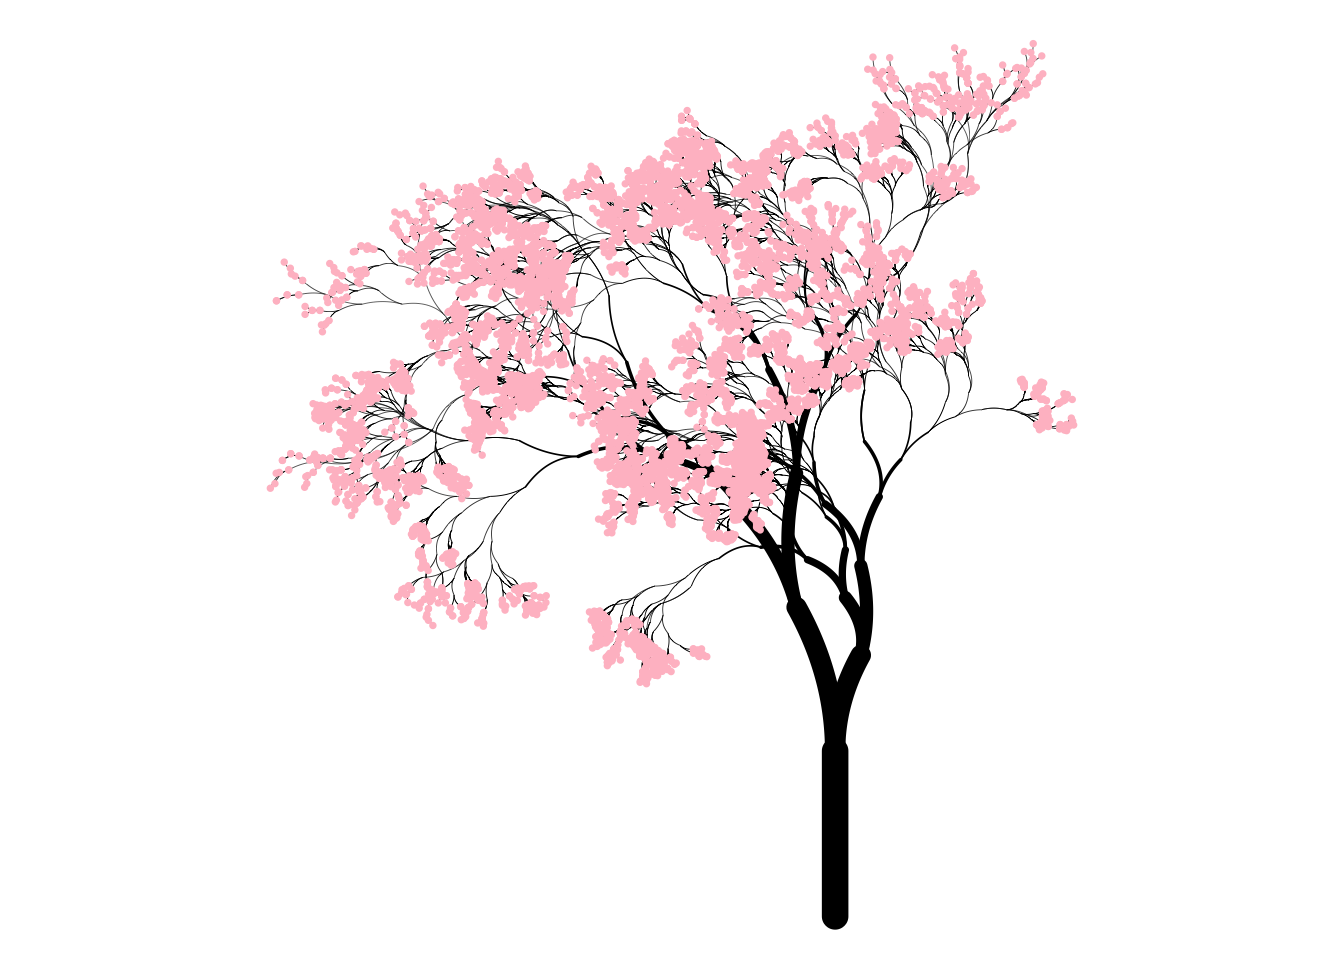
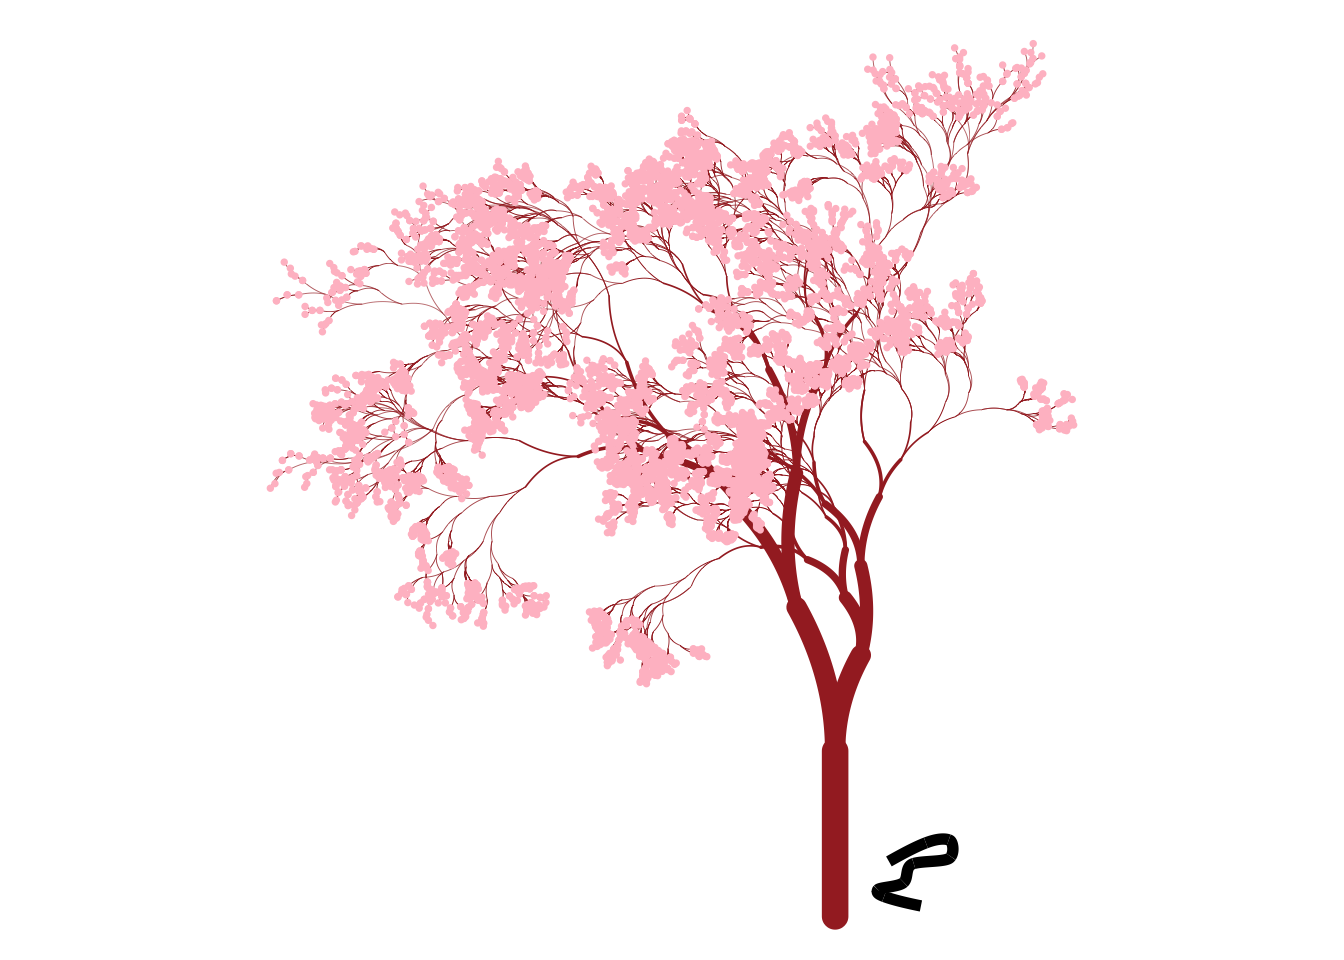
rendering

diff --git a/artwork.html b/artwork.html
@@ -142,52 +142,77 @@ Attaching package: 'dplyr'</code></pre>
 <div class="sourceCode cell-code" id="cb5"><pre class="sourceCode r code-with-copy"><code class="sourceCode r"><span id="cb5-1"><a href="#cb5-1" aria-hidden="true" tabindex="-1"></a><span class="fu">library</span>(tibble)</span>
 <span id="cb5-2"><a href="#cb5-2" aria-hidden="true" tabindex="-1"></a><span class="fu">library</span>(ggplot2)</span>
 <span id="cb5-3"><a href="#cb5-3" aria-hidden="true" tabindex="-1"></a><span class="fu">library</span>(ggforce)</span>
-<span id="cb5-4"><a href="#cb5-4" aria-hidden="true" tabindex="-1"></a><span class="fu">library</span>(flametree)</span></code><button title="Copy to Clipboard" class="code-copy-button"><i class="bi"></i></button></pre></div>
+<span id="cb5-4"><a href="#cb5-4" aria-hidden="true" tabindex="-1"></a><span class="fu">library</span>(flametree)</span>
+<span id="cb5-5"><a href="#cb5-5" aria-hidden="true" tabindex="-1"></a><span class="fu">library</span>(dplyr)</span>
+<span id="cb5-6"><a href="#cb5-6" aria-hidden="true" tabindex="-1"></a><span class="fu">library</span>(purrr)</span>
+<span id="cb5-7"><a href="#cb5-7" aria-hidden="true" tabindex="-1"></a><span class="fu">library</span>(tidyr)</span>
+<span id="cb5-8"><a href="#cb5-8" aria-hidden="true" tabindex="-1"></a><span class="fu">library</span>(tibble)</span>
+<span id="cb5-9"><a href="#cb5-9" aria-hidden="true" tabindex="-1"></a><span class="fu">library</span>(ggplot2)</span>
+<span id="cb5-10"><a href="#cb5-10" aria-hidden="true" tabindex="-1"></a><span class="fu">library</span>(ambient)</span>
+<span id="cb5-11"><a href="#cb5-11" aria-hidden="true" tabindex="-1"></a><span class="fu">library</span>(tictoc)</span>
+<span id="cb5-12"><a href="#cb5-12" aria-hidden="true" tabindex="-1"></a><span class="fu">library</span>(ggthemes)</span>
+<span id="cb5-13"><a href="#cb5-13" aria-hidden="true" tabindex="-1"></a><span class="fu">library</span>(gifski)</span></code><button title="Copy to Clipboard" class="code-copy-button"><i class="bi"></i></button></pre></div>
 </div>
 <div class="cell">
-<div class="sourceCode cell-code" id="cb6"><pre class="sourceCode r code-with-copy"><code class="sourceCode r"><span id="cb6-1"><a href="#cb6-1" aria-hidden="true" tabindex="-1"></a><span class="fu">library</span>(ggplot2)</span>
+<div class="sourceCode cell-code" id="cb6"><pre class="sourceCode r code-with-copy"><code class="sourceCode r"><span id="cb6-1"><a href="#cb6-1" aria-hidden="true" tabindex="-1"></a><span class="fu">library</span>(ggplot2) <span class="co">#installing libraryes</span></span>
 <span id="cb6-2"><a href="#cb6-2" aria-hidden="true" tabindex="-1"></a><span class="fu">library</span>(ggforce)</span>
-<span id="cb6-3"><a href="#cb6-3" aria-hidden="true" tabindex="-1"></a></span>
-<span id="cb6-4"><a href="#cb6-4" aria-hidden="true" tabindex="-1"></a>tree <span class="ot">&lt;-</span> <span class="fu">flametree_grow</span>(</span>
-<span id="cb6-5"><a href="#cb6-5" aria-hidden="true" tabindex="-1"></a>  <span class="at">seed =</span> <span class="dv">286</span>,</span>
-<span id="cb6-6"><a href="#cb6-6" aria-hidden="true" tabindex="-1"></a>  <span class="at">time =</span> <span class="dv">12</span>,</span>
-<span id="cb6-7"><a href="#cb6-7" aria-hidden="true" tabindex="-1"></a>  <span class="at">angle =</span> <span class="fu">c</span>(<span class="sc">-</span><span class="dv">15</span>, <span class="dv">15</span>, <span class="dv">30</span>),</span>
-<span id="cb6-8"><a href="#cb6-8" aria-hidden="true" tabindex="-1"></a>  <span class="at">split =</span> <span class="dv">2</span>,</span>
-<span id="cb6-9"><a href="#cb6-9" aria-hidden="true" tabindex="-1"></a>  <span class="at">trees =</span> <span class="dv">1</span></span>
-<span id="cb6-10"><a href="#cb6-10" aria-hidden="true" tabindex="-1"></a>)</span>
-<span id="cb6-11"><a href="#cb6-11" aria-hidden="true" tabindex="-1"></a></span>
-<span id="cb6-12"><a href="#cb6-12" aria-hidden="true" tabindex="-1"></a>leaf <span class="ot">&lt;-</span> tree <span class="sc">|&gt;</span> <span class="fu">filter</span>(id_leaf <span class="sc">==</span> <span class="cn">TRUE</span>)</span>
-<span id="cb6-13"><a href="#cb6-13" aria-hidden="true" tabindex="-1"></a></span>
-<span id="cb6-14"><a href="#cb6-14" aria-hidden="true" tabindex="-1"></a>base <span class="ot">&lt;-</span> <span class="fu">ggplot</span>() <span class="sc">+</span> </span>
-<span id="cb6-15"><a href="#cb6-15" aria-hidden="true" tabindex="-1"></a>  <span class="fu">scale_size_identity</span>() <span class="sc">+</span> </span>
-<span id="cb6-16"><a href="#cb6-16" aria-hidden="true" tabindex="-1"></a>  <span class="fu">theme_void</span>() <span class="sc">+</span> </span>
-<span id="cb6-17"><a href="#cb6-17" aria-hidden="true" tabindex="-1"></a>  <span class="fu">coord_equal</span>()</span>
-<span id="cb6-18"><a href="#cb6-18" aria-hidden="true" tabindex="-1"></a></span>
-<span id="cb6-19"><a href="#cb6-19" aria-hidden="true" tabindex="-1"></a>leaves <span class="ot">&lt;-</span> <span class="fu">geom_point</span>(</span>
-<span id="cb6-20"><a href="#cb6-20" aria-hidden="true" tabindex="-1"></a>  <span class="at">mapping =</span> <span class="fu">aes</span>(coord_x, coord_y),</span>
-<span id="cb6-21"><a href="#cb6-21" aria-hidden="true" tabindex="-1"></a>  <span class="at">data =</span> leaf, </span>
-<span id="cb6-22"><a href="#cb6-22" aria-hidden="true" tabindex="-1"></a>  <span class="at">size =</span> <span class="fl">1.3</span>, </span>
-<span id="cb6-23"><a href="#cb6-23" aria-hidden="true" tabindex="-1"></a>  <span class="at">stroke =</span> <span class="dv">0</span>, </span>
-<span id="cb6-24"><a href="#cb6-24" aria-hidden="true" tabindex="-1"></a>  <span class="at">colour =</span> <span class="st">"pink"</span></span>
-<span id="cb6-25"><a href="#cb6-25" aria-hidden="true" tabindex="-1"></a>)</span>
-<span id="cb6-26"><a href="#cb6-26" aria-hidden="true" tabindex="-1"></a></span>
-<span id="cb6-27"><a href="#cb6-27" aria-hidden="true" tabindex="-1"></a>trunk <span class="ot">&lt;-</span> <span class="fu">geom_bezier</span>(</span>
-<span id="cb6-28"><a href="#cb6-28" aria-hidden="true" tabindex="-1"></a>  <span class="at">mapping =</span> <span class="fu">aes</span>(coord_x, coord_y, <span class="at">group =</span> id_pathtree, <span class="at">size =</span> seg_wid),</span>
-<span id="cb6-29"><a href="#cb6-29" aria-hidden="true" tabindex="-1"></a>  <span class="at">data =</span> tree, </span>
-<span id="cb6-30"><a href="#cb6-30" aria-hidden="true" tabindex="-1"></a>  <span class="at">lineend =</span> <span class="st">"round"</span>,</span>
-<span id="cb6-31"><a href="#cb6-31" aria-hidden="true" tabindex="-1"></a>  <span class="at">show.legend =</span> <span class="cn">FALSE</span></span>
-<span id="cb6-32"><a href="#cb6-32" aria-hidden="true" tabindex="-1"></a>)</span></code><button title="Copy to Clipboard" class="code-copy-button"><i class="bi"></i></button></pre></div>
+<span id="cb6-3"><a href="#cb6-3" aria-hidden="true" tabindex="-1"></a><span class="fu">library</span>(e1071)</span>
+<span id="cb6-4"><a href="#cb6-4" aria-hidden="true" tabindex="-1"></a></span>
+<span id="cb6-5"><a href="#cb6-5" aria-hidden="true" tabindex="-1"></a>tree <span class="ot">&lt;-</span> <span class="fu">flametree_grow</span>(</span>
+<span id="cb6-6"><a href="#cb6-6" aria-hidden="true" tabindex="-1"></a>  <span class="at">seed =</span> <span class="dv">286</span>, <span class="co">#adjusting the randomness of the angle of the tree</span></span>
+<span id="cb6-7"><a href="#cb6-7" aria-hidden="true" tabindex="-1"></a>  <span class="at">time =</span> <span class="dv">12</span>,</span>
+<span id="cb6-8"><a href="#cb6-8" aria-hidden="true" tabindex="-1"></a>  <span class="at">angle =</span> <span class="fu">c</span>(<span class="sc">-</span><span class="dv">15</span>, <span class="dv">15</span>, <span class="dv">30</span>), <span class="co">#adjusting the angle of the tree</span></span>
+<span id="cb6-9"><a href="#cb6-9" aria-hidden="true" tabindex="-1"></a>  <span class="at">split =</span> <span class="dv">2</span>, <span class="co">#adjusting the split of the tree</span></span>
+<span id="cb6-10"><a href="#cb6-10" aria-hidden="true" tabindex="-1"></a>  <span class="at">trees =</span> <span class="dv">1</span></span>
+<span id="cb6-11"><a href="#cb6-11" aria-hidden="true" tabindex="-1"></a>)</span>
+<span id="cb6-12"><a href="#cb6-12" aria-hidden="true" tabindex="-1"></a></span>
+<span id="cb6-13"><a href="#cb6-13" aria-hidden="true" tabindex="-1"></a>leaf <span class="ot">&lt;-</span> tree <span class="sc">|&gt;</span> <span class="fu">filter</span>(id_leaf <span class="sc">==</span> <span class="cn">TRUE</span>) <span class="co">#creating the leaves</span></span>
+<span id="cb6-14"><a href="#cb6-14" aria-hidden="true" tabindex="-1"></a></span>
+<span id="cb6-15"><a href="#cb6-15" aria-hidden="true" tabindex="-1"></a>base <span class="ot">&lt;-</span> <span class="fu">ggplot</span>() <span class="sc">+</span>  <span class="co">#creaing the base of the tree</span></span>
+<span id="cb6-16"><a href="#cb6-16" aria-hidden="true" tabindex="-1"></a>  <span class="fu">scale_size_identity</span>() <span class="sc">+</span> </span>
+<span id="cb6-17"><a href="#cb6-17" aria-hidden="true" tabindex="-1"></a>  <span class="fu">theme_void</span>() <span class="sc">+</span> <span class="co">#getting rid of the base</span></span>
+<span id="cb6-18"><a href="#cb6-18" aria-hidden="true" tabindex="-1"></a>  <span class="fu">coord_equal</span>()</span>
+<span id="cb6-19"><a href="#cb6-19" aria-hidden="true" tabindex="-1"></a></span>
+<span id="cb6-20"><a href="#cb6-20" aria-hidden="true" tabindex="-1"></a>leaves <span class="ot">&lt;-</span> <span class="fu">geom_point</span>(</span>
+<span id="cb6-21"><a href="#cb6-21" aria-hidden="true" tabindex="-1"></a>  <span class="at">mapping =</span> <span class="fu">aes</span>(coord_x, coord_y),</span>
+<span id="cb6-22"><a href="#cb6-22" aria-hidden="true" tabindex="-1"></a>  <span class="at">data =</span> leaf, </span>
+<span id="cb6-23"><a href="#cb6-23" aria-hidden="true" tabindex="-1"></a>  <span class="at">size =</span> <span class="fl">1.3</span>,  <span class="co">#adjusting the size</span></span>
+<span id="cb6-24"><a href="#cb6-24" aria-hidden="true" tabindex="-1"></a>  <span class="at">stroke =</span> <span class="dv">0</span>, </span>
+<span id="cb6-25"><a href="#cb6-25" aria-hidden="true" tabindex="-1"></a>  <span class="at">colour =</span> <span class="st">"pink"</span> <span class="co">#adjusting the color of the leaves to pink</span></span>
+<span id="cb6-26"><a href="#cb6-26" aria-hidden="true" tabindex="-1"></a>)</span>
+<span id="cb6-27"><a href="#cb6-27" aria-hidden="true" tabindex="-1"></a></span>
+<span id="cb6-28"><a href="#cb6-28" aria-hidden="true" tabindex="-1"></a>trunk <span class="ot">&lt;-</span> <span class="fu">geom_bezier</span>(</span>
+<span id="cb6-29"><a href="#cb6-29" aria-hidden="true" tabindex="-1"></a>  <span class="at">mapping =</span> <span class="fu">aes</span>(coord_x, coord_y, <span class="at">group =</span> id_pathtree, <span class="at">size =</span> seg_wid),</span>
+<span id="cb6-30"><a href="#cb6-30" aria-hidden="true" tabindex="-1"></a>  <span class="at">data =</span> tree, </span>
+<span id="cb6-31"><a href="#cb6-31" aria-hidden="true" tabindex="-1"></a>  <span class="at">lineend =</span> <span class="st">"round"</span>, <span class="co">#adjusting the shape of the trunk</span></span>
+<span id="cb6-32"><a href="#cb6-32" aria-hidden="true" tabindex="-1"></a>  <span class="at">show.legend =</span> <span class="cn">FALSE</span>,</span>
+<span id="cb6-33"><a href="#cb6-33" aria-hidden="true" tabindex="-1"></a>  <span class="at">colour =</span> <span class="st">"brown"</span> <span class="co">#adjusting the color of the trunk</span></span>
+<span id="cb6-34"><a href="#cb6-34" aria-hidden="true" tabindex="-1"></a>)</span></code><button title="Copy to Clipboard" class="code-copy-button"><i class="bi"></i></button></pre></div>
 <div class="cell-output cell-output-stderr">
 <pre><code>Warning: Using `size` aesthetic for lines was deprecated in ggplot2 3.4.0.
 ℹ Please use `linewidth` instead.</code></pre>
 </div>
-<div class="sourceCode cell-code" id="cb8"><pre class="sourceCode r code-with-copy"><code class="sourceCode r"><span id="cb8-1"><a href="#cb8-1" aria-hidden="true" tabindex="-1"></a><span class="co"># generating a random color each time</span></span>
-<span id="cb8-2"><a href="#cb8-2" aria-hidden="true" tabindex="-1"></a>random_color <span class="ot">&lt;-</span> <span class="fu">sample</span>(<span class="fu">colors</span>(), <span class="dv">1</span>)</span>
-<span id="cb8-3"><a href="#cb8-3" aria-hidden="true" tabindex="-1"></a></span>
-<span id="cb8-4"><a href="#cb8-4" aria-hidden="true" tabindex="-1"></a></span>
-<span id="cb8-5"><a href="#cb8-5" aria-hidden="true" tabindex="-1"></a></span>
-<span id="cb8-6"><a href="#cb8-6" aria-hidden="true" tabindex="-1"></a></span>
-<span id="cb8-7"><a href="#cb8-7" aria-hidden="true" tabindex="-1"></a><span class="fu">plot</span>(base <span class="sc">+</span> trunk <span class="sc">+</span> leaves, <span class="at">col =</span> random_color)</span></code><button title="Copy to Clipboard" class="code-copy-button"><i class="bi"></i></button></pre></div>
+<div class="sourceCode cell-code" id="cb8"><pre class="sourceCode r code-with-copy"><code class="sourceCode r"><span id="cb8-1"><a href="#cb8-1" aria-hidden="true" tabindex="-1"></a>smooth_loess <span class="ot">&lt;-</span> <span class="cf">function</span>(x, span) { <span class="co">#creating a smooth curve</span></span>
+<span id="cb8-2"><a href="#cb8-2" aria-hidden="true" tabindex="-1"></a>  n <span class="ot">&lt;-</span> <span class="fu">length</span>(x)</span>
+<span id="cb8-3"><a href="#cb8-3" aria-hidden="true" tabindex="-1"></a>  dat <span class="ot">&lt;-</span> <span class="fu">tibble</span>(<span class="at">time =</span> <span class="dv">1</span><span class="sc">:</span>n, <span class="at">walk =</span> x)</span>
+<span id="cb8-4"><a href="#cb8-4" aria-hidden="true" tabindex="-1"></a>  mod <span class="ot">&lt;-</span> <span class="fu">loess</span>(walk <span class="sc">~</span> time, dat, <span class="at">span =</span> span)</span>
+<span id="cb8-5"><a href="#cb8-5" aria-hidden="true" tabindex="-1"></a>  <span class="fu">predict</span>(mod, <span class="fu">tibble</span>(<span class="at">time =</span> <span class="dv">1</span><span class="sc">:</span>n))</span>
+<span id="cb8-6"><a href="#cb8-6" aria-hidden="true" tabindex="-1"></a>}</span>
+<span id="cb8-7"><a href="#cb8-7" aria-hidden="true" tabindex="-1"></a></span>
+<span id="cb8-8"><a href="#cb8-8" aria-hidden="true" tabindex="-1"></a>smooth_path <span class="ot">&lt;-</span> <span class="cf">function</span>(<span class="at">n =</span> <span class="dv">1000</span>, <span class="at">smoothing =</span> .<span class="dv">7</span>, <span class="at">seed =</span> <span class="cn">NULL</span>) { </span>
+<span id="cb8-9"><a href="#cb8-9" aria-hidden="true" tabindex="-1"></a>  <span class="cf">if</span>(<span class="sc">!</span><span class="fu">is.null</span>(seed)) <span class="fu">set.seed</span>(seed)</span>
+<span id="cb8-10"><a href="#cb8-10" aria-hidden="true" tabindex="-1"></a>  <span class="fu">tibble</span>(</span>
+<span id="cb8-11"><a href="#cb8-11" aria-hidden="true" tabindex="-1"></a>    <span class="at">x =</span> <span class="fu">smooth_loess</span>(<span class="fu">rbridge</span>(<span class="dv">1</span>, n), <span class="at">span =</span> smoothing), <span class="co">#creating smooth lines</span></span>
+<span id="cb8-12"><a href="#cb8-12" aria-hidden="true" tabindex="-1"></a>    <span class="at">y =</span> <span class="fu">smooth_loess</span>(<span class="fu">rbridge</span>(<span class="dv">1</span>, n), <span class="at">span =</span> smoothing),</span>
+<span id="cb8-13"><a href="#cb8-13" aria-hidden="true" tabindex="-1"></a>    <span class="at">stroke =</span> <span class="dv">1</span> <span class="co">#adjusting the stroke of the line</span></span>
+<span id="cb8-14"><a href="#cb8-14" aria-hidden="true" tabindex="-1"></a>  )</span>
+<span id="cb8-15"><a href="#cb8-15" aria-hidden="true" tabindex="-1"></a>}</span>
+<span id="cb8-16"><a href="#cb8-16" aria-hidden="true" tabindex="-1"></a></span>
+<span id="cb8-17"><a href="#cb8-17" aria-hidden="true" tabindex="-1"></a>path <span class="ot">&lt;-</span> <span class="fu">smooth_path</span>(<span class="at">seed =</span> <span class="dv">50</span>) <span class="co">#adjusting the randomness of the path</span></span>
+<span id="cb8-18"><a href="#cb8-18" aria-hidden="true" tabindex="-1"></a></span>
+<span id="cb8-19"><a href="#cb8-19" aria-hidden="true" tabindex="-1"></a>combined_plot <span class="ot">&lt;-</span> base <span class="sc">+</span> trunk <span class="sc">+</span> leaves <span class="sc">+</span> <span class="fu">geom_path</span>(<span class="at">data =</span> path, <span class="fu">aes</span>(x, y), <span class="at">colour =</span> <span class="st">"black"</span>, <span class="at">size =</span> <span class="dv">2</span>) <span class="co">#creating a combiined plot with the tree</span></span>
+<span id="cb8-20"><a href="#cb8-20" aria-hidden="true" tabindex="-1"></a></span>
+<span id="cb8-21"><a href="#cb8-21" aria-hidden="true" tabindex="-1"></a><span class="fu">plot</span>(combined_plot)</span></code><button title="Copy to Clipboard" class="code-copy-button"><i class="bi"></i></button></pre></div>
 <div class="cell-output-display">
 <p><img src="artwork_files/figure-html/unnamed-chunk-2-1.png" class="img-fluid" width="672"></p>
 </div>

diff --git a/TOC.html b/TOC.html
@@ -368,11 +368,28 @@ Started</a>
 <li><a href="#exercise-3" id="toc-exercise-3">Exercise 3</a></li>
 <li><a href="#exercise-4" id="toc-exercise-4">Exercise 4</a></li>
 </ul></li>
-<li><a href="#polygon-tricks" id="toc-polygon-tricks">Polygon Tricks</a>
+<li><a href="#polygon-tricks-task-2" id="toc-polygon-tricks-task-2">Polygon Tricks Task 2</a>
 <ul>
 <li><a href="#exercise-1-1" id="toc-exercise-1-1">Exercise 1</a></li>
 <li><a href="#exercise-2-1" id="toc-exercise-2-1">Exercise 2</a></li>
+<li><a href="#exercse-3" id="toc-exercse-3">Exercse 3</a></li>
+<li><a href="#exercise-4-1" id="toc-exercise-4-1">Exercise 4</a></li>
+<li><a href="#exercise-5" id="toc-exercise-5">Exercise 5</a></li>
+<li><a href="#exercise-6" id="toc-exercise-6">Exercise 6</a></li>
+<li><a href="#exercise-7" id="toc-exercise-7">Exercise 7</a></li>
+<li><a href="#exercise-8" id="toc-exercise-8">Exercise 8</a></li>
 </ul></li>
+<li><a href="#pixel-filters-task-3" id="toc-pixel-filters-task-3">Pixel
+Filters Task 3</a>
+<ul>
+<li><a href="#exercise-1-2" id="toc-exercise-1-2">Exercise 1</a></li>
+<li><a href="#exercise-2-2" id="toc-exercise-2-2">Exercise 2</a></li>
+<li><a href="#exercise-3-1" id="toc-exercise-3-1">Exercise 3</a></li>
+<li><a href="#exercise-4-2" id="toc-exercise-4-2">Exercise 4</a></li>
+<li><a href="#exercise-5-1" id="toc-exercise-5-1">Exercise 5</a></li>
+<li><a href="#exercise-6-1" id="toc-exercise-6-1">Exercise 6</a></li>
+</ul></li>
+<li><a href="#combining-elementw-task-4" id="toc-combining-elementw-task-4">## Combining Elementw Task 4</a></li>
 </ul>
 </div>
 
@@ -407,8 +424,8 @@ Started Exercise 4</a></li>
 </ul>
 </div>
 </div>
-<div id="polygon-tricks" class="section level2 tabset">
-<h2 class="tabset">Polygon Tricks</h2>
+<div id="polygon-tricks-task-2" class="section level2 tabset">
+<h2 class="tabset">Polygon Tricks Task 2</h2>
 <div id="exercise-1-1" class="section level3">
 <h3>Exercise 1</h3>
 <ul>
@@ -427,6 +444,97 @@ Tricks (splotch.R)</a></li>
 Tricks (smudged_hexagon)</a></li>
 </ul>
 </div>
+<div id="exercse-3" class="section level3">
+<h3>Exercse 3</h3>
+<ul>
+<li><a href="https://github.com/celine-parkk/CHOYOA3/blob/main/perlin-blob.rmd">Polygon
+Tricks (perlin-blob.R)</a></li>
+<li><a href="https://github.com/celine-parkk/CHOYOA3/blob/main/exercises/perlin-heart.R">Polygon
+Tricks (perlin-heart.R)</a></li>
+</ul>
+</div>
+<div id="exercise-4-1" class="section level3">
+<h3>Exercise 4</h3>
+<ul>
+<li><a href="https://github.com/celine-parkk/CHOYOA3/blob/main/exercises/perlin-heart-grid.R">Polygon
+Tricks (perlin-heart-grid.R)</a></li>
+</ul>
+</div>
+<div id="exercise-5" class="section level3">
+<h3>Exercise 5</h3>
+<ul>
+<li><a href="https://github.com/celine-parkk/CHOYOA3/blob/main/exercises/perlin-heart-grid-2.R">Polygon
+Tricks (perlin-heart-grid-2.R)</a></li>
+</ul>
+</div>
+<div id="exercise-6" class="section level3">
+<h3>Exercise 6</h3>
+<ul>
+<li><a href="https://github.com/celine-parkk/CHOYOA3/blob/main/exercises/perlin-heart-grid-2.R">Polygon
+Tricks (perlin-heart-grid-2.R)</a></li>
+</ul>
+</div>
+<div id="exercise-7" class="section level3">
+<h3>Exercise 7</h3>
+<ul>
+<li><a href="https://github.com/celine-parkk/CHOYOA3/blob/main/exercises/perlin-heart-animated.R">Polygon
+Tricks (perlin-heart-animated)</a></li>
+</ul>
+</div>
+<div id="exercise-8" class="section level3">
+<h3>Exercise 8</h3>
+<ul>
+<li><a href="https://github.com/celine-parkk/CHOYOA3/blob/main/exercises/textured-lines.R">Polygon
+Tricks (textured-lines)</a></li>
+</ul>
+</div>
+</div>
+<div id="pixel-filters-task-3" class="section level2 tabset">
+<h2 class="tabset">Pixel Filters Task 3</h2>
+<div id="exercise-1-2" class="section level3">
+<h3>Exercise 1</h3>
+<ul>
+<li><a href="https://github.com/celine-parkk/CHOYOA3/blob/main/exercises/flametree-example.R">flametree</a></li>
+</ul>
+</div>
+<div id="exercise-2-2" class="section level3">
+<h3>Exercise 2</h3>
+<ul>
+<li><a href="https://github.com/celine-parkk/CHOYOA3/blob/main/exercises/ggfx-glow.R">ggfx
+glow</a></li>
+</ul>
+</div>
+<div id="exercise-3-1" class="section level3">
+<h3>Exercise 3</h3>
+<ul>
+<li><a href="https://github.com/celine-parkk/CHOYOA3/blob/main/exercises/ggfx-dither.R">ggfx
+dither</a></li>
+</ul>
+</div>
+<div id="exercise-4-2" class="section level3">
+<h3>Exercise 4</h3>
+<ul>
+<li><a href="https://github.com/celine-parkk/CHOYOA3/blob/main/exercises/ggfx-mask.R">ggfx
+mask</a></li>
+</ul>
+</div>
+<div id="exercise-5-1" class="section level3">
+<h3>Exercise 5</h3>
+<ul>
+<li><a href="https://github.com/celine-parkk/CHOYOA3/blob/main/exercises/ggfx-displace.R">ggfx
+displace</a></li>
+</ul>
+</div>
+<div id="exercise-6-1" class="section level3">
+<h3>Exercise 6</h3>
+<ul>
+<li><a href="https://github.com/celine-parkk/CHOYOA3/blob/main/exercises/ggfx-blend.R">ggfx
+blend</a></li>
+</ul>
+</div>
+</div>
+<div id="combining-elementw-task-4" class="section level2 tabset">
+<h2 class="tabset">## Combining Elementw Task 4</h2>
 </div>
 
 
